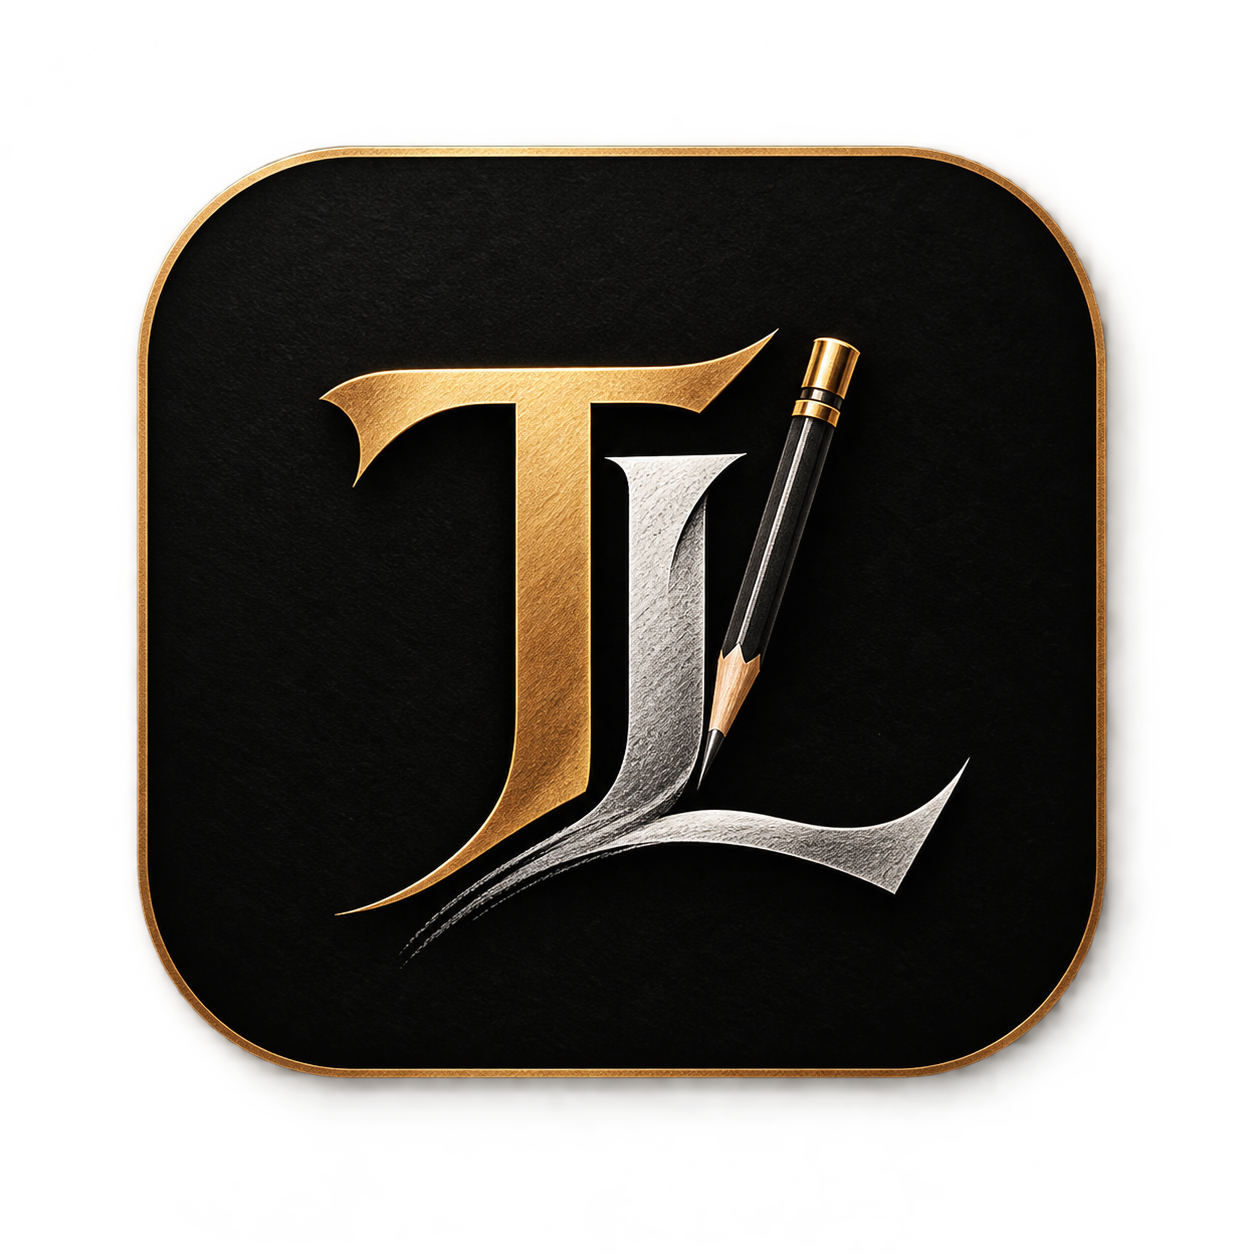
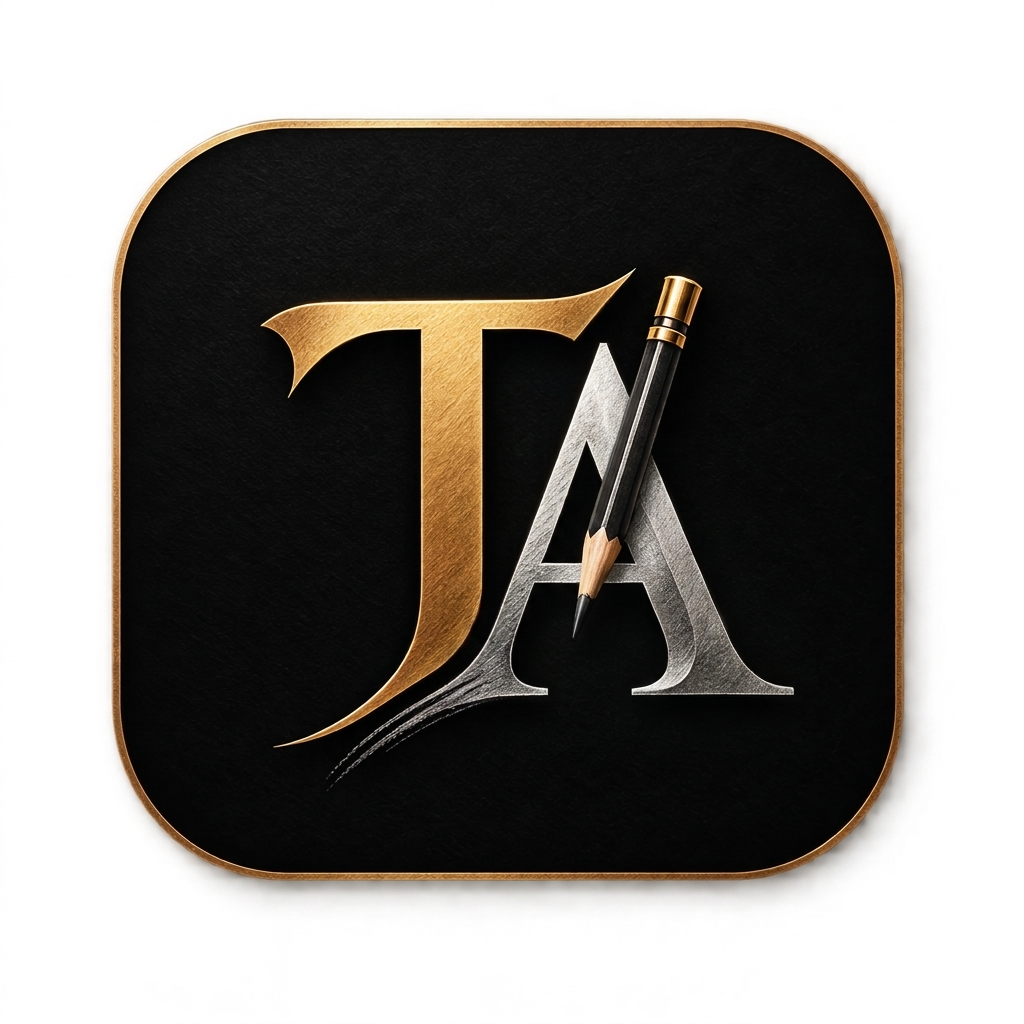
add frontend components, backend server, and portfolio data for Tushar Arts

diff --git a/frontend/src/components/HeroScroll/HeroScroll.jsx b/frontend/src/components/HeroScroll/HeroScroll.jsx
@@ -2,7 +2,7 @@ import { useEffect, useRef, useState, useCallback } from 'react';
 import './HeroScroll.css';
 
 const FRAME_FILES = [
-  'frame_001.jpg', 'frame_002.jpg', 'frame_003.jpg', 'frame_004.jpg', 'frame_005.jpg',
+  
   'frame_006.jpg', 'frame_007.jpg', 'frame_008.jpg', 'frame_009.jpg', 'frame_010.jpg',
   'frame_011.jpg', 'frame_012.jpg', 'frame_013.jpg', 'frame_014.jpg', 'frame_015.jpg',
   'frame_016.jpg', 'frame_017.jpg', 'frame_018.jpg', 'frame_019.jpg', 'frame_020.jpg',
@@ -208,7 +208,7 @@ export default function HeroScroll() {
         {/* Preloader Overlay (disappears smoothly once frame 1 is ready) */}
         {!isReady && (
           <div className="hero-loader-overlay">
-            <h2 className="loader-title">TL ARTS</h2>
+            <h2 className="loader-title">TUSHAR ARTS</h2>
             <div className="loader-status">
               LOADING TRAILER FRAMES... {loadPercent}%
             </div>
@@ -231,8 +231,8 @@ export default function HeroScroll() {
                 : 'hidden-up'
             }`}
           >
-            <div className="badge-tagline">★ TUSHAR LOHAR ARTS ★</div>
-            <h1 className="gta-headline">TL ARTS</h1>
+            <div className="badge-tagline">★ TUSHAR LOHAR STUDIO ★</div>
+            <h1 className="gta-headline">TUSHAR ARTS</h1>
             <p className="story-description">
               EVERY STROKE TELLS A STORY. REALISTIC GRAPHITE & CHARCOAL PORTRAITS BY TUSHAR LOHAR.
             </p>
@@ -298,26 +298,12 @@ export default function HeroScroll() {
           </div>
         </div>
 
-        {/* Bottom HUD: Telemetry, Scroll Indicator & Progress Bar */}
+        {/* Bottom HUD: Scroll Indicator */}
         <footer className="hero-bottom-hud">
-          <div className="hud-left" />
-
           <div className="hud-center">
             <div className="scroll-prompt">
               <span>SCROLL TO EXPLORE</span>
               <span>↓</span>
-            </div>
-          </div>
-
-          <div className="hud-right">
-            <div className="progress-number">
-              {Math.round(scrollProgress * 100)}% COMPLETE
-            </div>
-            <div className="progress-track">
-              <div
-                className="progress-fill"
-                style={{ width: `${Math.round(scrollProgress * 100)}%` }}
-              />
             </div>
           </div>
         </footer>

diff --git a/frontend/index.html b/frontend/index.html
@@ -2,22 +2,22 @@
 <html lang="en">
   <head>
     <meta charset="UTF-8" />
-    <link rel="icon" type="image/svg+xml" href="/icon.png" />
+    <link rel="icon" type="image/png" href="/icon.png" />
     <meta name="viewport" content="width=device-width, initial-scale=1.0" />
-    <title>TLArts | Tushar Lohar — Realistic Sketch Artist Portfolio</title>
-    <meta name="description" content="TLArts (Tushar Lohar Arts) — Hyper-Realistic Graphite & Charcoal Portrait Sketch Artist. Every Stroke Tells a Story. Book bespoke handmade portrait commissions." />
-    <meta name="keywords" content="Tushar Lohar, TLArts, Sketch Artist, Graphite Portrait, Charcoal Sketch, Realistic Sketches, artist_tushar_02, Portrait Artist Maharashtra" />
+    <title>Tushar Arts | Tushar Lohar — Realistic Sketch Artist Portfolio</title>
+    <meta name="description" content="Tushar Arts — Hyper-Realistic Graphite & Charcoal Portrait Sketch Artist Tushar Lohar. Every Stroke Tells a Story. Book bespoke handmade portrait commissions." />
+    <meta name="keywords" content="Tushar Lohar, Tushar Arts, Sketch Artist, Graphite Portrait, Charcoal Sketch, Realistic Sketches, artist_tushar_02, Portrait Artist Maharashtra" />
     <meta name="author" content="Tushar Lohar" />
 
     <!-- Open Graph / WhatsApp / Facebook Sharing Preview -->
     <meta property="og:type" content="website" />
-    <meta property="og:title" content="TLArts | Tushar Lohar — Realistic Sketch Artist" />
+    <meta property="og:title" content="Tushar Arts | Tushar Lohar — Realistic Sketch Artist" />
     <meta property="og:description" content="Every Stroke Tells a Story. Photorealistic handmade pencil & charcoal portraits by Tushar Lohar (@artist_tushar_02)." />
-    <meta property="og:image" content="/public/icon.png" />
+    <meta property="og:image" content="/icon.png" />
 
     <!-- Twitter Card -->
     <meta name="twitter:card" content="summary_large_image" />
-    <meta name="twitter:title" content="TLArts | Tushar Lohar — Realistic Sketch Artist" />
+    <meta name="twitter:title" content="Tushar Arts | Tushar Lohar — Realistic Sketch Artist" />
     <meta name="twitter:description" content="Every Stroke Tells a Story. Photorealistic handmade pencil & charcoal portraits by Tushar Lohar (@artist_tushar_02)." />
     <meta name="twitter:image" content="/tushar_photo/Tushar_photo.jpg" />
 

diff --git a/frontend/src/components/HeroScroll/HeroScroll.css b/frontend/src/components/HeroScroll/HeroScroll.css
@@ -141,7 +141,7 @@
 
 .gta-headline {
   font-family: var(--font-display);
-  font-size: clamp(3.8rem, 9vw, 8.5rem);
+  font-size: clamp(3rem, 8.5vw, 8rem);
   font-weight: 900;
   line-height: 0.9;
   letter-spacing: 3px;
@@ -252,7 +252,7 @@
   right: 0;
   z-index: 10;
   display: flex;
-  justify-content: space-between;
+  justify-content: center;
   align-items: flex-end;
   padding: 24px 48px;
   background: linear-gradient(0deg, rgba(3, 3, 6, 0.9) 0%, transparent 100%);
@@ -307,36 +307,6 @@
   50% { transform: translateY(5px); }
 }
 
-.hud-right {
-  display: flex;
-  flex-direction: column;
-  align-items: flex-end;
-  gap: 6px;
-}
-
-.progress-number {
-  font-family: var(--font-mono);
-  font-size: 0.85rem;
-  font-weight: 700;
-  letter-spacing: 1px;
-  color: #ffffff;
-}
-
-.progress-track {
-  width: 140px;
-  height: 4px;
-  background: rgba(255, 255, 255, 0.15);
-  border-radius: 2px;
-  overflow: hidden;
-}
-
-.progress-fill {
-  height: 100%;
-  background: linear-gradient(90deg, var(--gta-pink), var(--gta-orange), var(--gta-cyan));
-  border-radius: 2px;
-  transition: width 0.1s linear;
-}
-
 /* ==========================================================================
    PRELOADER OVERLAY
    ========================================================================== */
@@ -356,7 +326,7 @@
 
 .loader-title {
   font-family: var(--font-display);
-  font-size: 3rem;
+  font-size: clamp(2.2rem, 6vw, 3rem);
   letter-spacing: 4px;
   background: linear-gradient(135deg, #ffffff 30%, #ff7700 70%, #ff2a85 100%);
   -webkit-background-clip: text;

diff --git a/frontend/src/components/EnquirySection/EnquirySection.jsx b/frontend/src/components/EnquirySection/EnquirySection.jsx
@@ -93,7 +93,7 @@ export default function EnquirySection() {
       : '';
 
     const text = encodeURIComponent(
-      `🎨 *TLArts — New Custom Sketch Commission* 🎨\n────────────────────────────\n👋 _Hello Tushar!_\n\nI just submitted a custom sketch commission request on your website:\n\n👤 *Client Name:* *${formData.name?.trim() || 'Art Lover'}*\n📞 *Contact / Phone:* _${formData.contact?.trim()}_\n🖼 *Sketch Type:* *${formData.sketchType}*\n📐 *Requested Size:* *${formData.size}*${hasPhotoText}${notesText}\n\n────────────────────────────\nPlease share pricing quotation, slot availability, and delivery timeline.\n\n_Looking forward to your response!_ ✨`
+      `🎨 *Tushar Arts — New Custom Sketch Commission* 🎨\n────────────────────────────\n👋 _Hello Tushar!_\n\nI just submitted a custom sketch commission request on your website:\n\n👤 *Client Name:* *${formData.name?.trim() || 'Art Lover'}*\n📞 *Contact / Phone:* _${formData.contact?.trim()}_\n🖼 *Sketch Type:* *${formData.sketchType}*\n📐 *Requested Size:* *${formData.size}*${hasPhotoText}${notesText}\n\n────────────────────────────\nPlease share pricing quotation, slot availability, and delivery timeline.\n\n_Looking forward to your response!_ ✨`
     );
 
     return `https://wa.me/919673400446?text=${text}`;

diff --git a/frontend/src/components/ArtistIntroduction/ArtistIntroduction.jsx b/frontend/src/components/ArtistIntroduction/ArtistIntroduction.jsx
@@ -11,7 +11,7 @@ export default function ArtistIntroduction() {
             THE ARTIST & STUDIO
           </span>
           <h2 className="font-['Bebas_Neue',sans-serif] text-5xl md:text-7xl tracking-wider text-white leading-none mb-4">
-            TUSHAR LOHAR <span className="bg-gradient-to-r from-[#e8c985] to-[#c5a059] bg-clip-text text-transparent">ARTS</span>
+            TUSHAR <span className="bg-gradient-to-r from-[#e8c985] to-[#c5a059] bg-clip-text text-transparent">ARTS</span>
           </h2>
           <p className="font-['Cinzel',serif] text-lg md:text-xl italic text-slate-400 max-w-2xl mx-auto">
             &ldquo;Every stroke tells a story, and every graphite layer captures a soul.&rdquo;
@@ -52,7 +52,7 @@ export default function ArtistIntroduction() {
             </h3>
 
             <p className="text-slate-300 text-base md:text-lg leading-relaxed">
-              Welcome to <strong className="text-white font-semibold">TLArts</strong>, the creative studio of sketch artist <strong className="text-white font-semibold">Tushar Lohar</strong>. 
+              Welcome to <strong className="text-white font-semibold">Tushar Arts</strong>, the creative studio of sketch artist <strong className="text-white font-semibold">Tushar Lohar</strong>. 
               Driven by a deep passion for the nuances of human emotion and realism, each artwork is meticulously hand-drawn using graphite and charcoal pencils.
             </p>
 

diff --git a/frontend/src/components/ArtworkModal/ArtworkModal.jsx b/frontend/src/components/ArtworkModal/ArtworkModal.jsx
@@ -129,7 +129,7 @@ export default function ArtworkModal({ artwork, onClose }) {
                   <>
                     <a
                       href={`https://wa.me/919673400446?text=${encodeURIComponent(
-                        `🎨 *TLArts — Original Artwork Purchase Inquiry*\n\nHello Tushar! I would like to purchase your authentic original artwork:\n\n• *Artwork Title:* "${artwork.title}"\n• *Medium:* ${artwork.medium}\n• *Dimensions:* ${artwork.dimensions}\n• *Listed Price:* ₹${(artwork.price || 0).toLocaleString('en-IN')}\n\nPlease share availability status, courier packaging details, and UPI/Bank payment methods.`
+                        `🎨 *Tushar Arts — Original Artwork Purchase Inquiry*\n\nHello Tushar! I would like to purchase your authentic original artwork:\n\n• *Artwork Title:* "${artwork.title}"\n• *Medium:* ${artwork.medium}\n• *Dimensions:* ${artwork.dimensions}\n• *Listed Price:* ₹${(artwork.price || 0).toLocaleString('en-IN')}\n\nPlease share availability status, courier packaging details, and UPI/Bank payment methods.`
                       )}`}
                       target="_blank"
                       rel="noopener noreferrer"

diff --git a/frontend/src/components/Footer/Footer.jsx b/frontend/src/components/Footer/Footer.jsx
@@ -17,7 +17,7 @@ export default function Footer() {
         <div className="grid grid-cols-1 md:grid-cols-12 gap-12 mb-16">
           <div className="md:col-span-5 flex flex-col">
             <span className="font-['Bebas_Neue',sans-serif] text-5xl tracking-widest font-black bg-gradient-to-r from-white via-white to-[#c5a059] bg-clip-text text-transparent leading-none mb-1">
-              TLARTS
+              TUSHAR ARTS
             </span>
             <span className="font-['Space_Grotesk',monospace] text-xs tracking-widest text-[#c5a059] uppercase mb-3">
               {ARTIST_INFO.fullName}
@@ -65,7 +65,7 @@ export default function Footer() {
         {/* Bottom Bar */}
         <div className="flex flex-col sm:flex-row justify-between items-center border-t border-white/5 pt-8 gap-4 text-xs font-['Space_Grotesk',monospace] text-slate-500">
           <div>
-            © {new Date().getFullYear()} {ARTIST_INFO.fullName} ({ARTIST_INFO.brandName}). Handcrafted with Graphite & Passion.
+            © {new Date().getFullYear()} {ARTIST_INFO.brandName} ({ARTIST_INFO.artistName}). Handcrafted with Graphite & Passion.
           </div>
 
           <button

diff --git a/frontend/src/components/OwnerPortal/OwnerStudioPage.jsx b/frontend/src/components/OwnerPortal/OwnerStudioPage.jsx
@@ -59,7 +59,7 @@ function InquiryCard({ inquiry, onStatusChange, onDelete, onImageClick }) {
   const cleanPhone = inquiry.contact.replace(/[^\d+]/g, '');
   const waUrl = cleanPhone
     ? `https://wa.me/${cleanPhone.startsWith('+') ? cleanPhone.slice(1) : cleanPhone}?text=${encodeURIComponent(
-        `Hello ${inquiry.name}! This is artist Tushar Lohar (TLArts) regarding your ${inquiry.sketchType} (${inquiry.size}) portrait commission request.`
+        `Hello ${inquiry.name}! This is artist Tushar Lohar (Tushar Arts) regarding your ${inquiry.sketchType} (${inquiry.size}) portrait commission request.`
       )}`
     : null;
 
@@ -658,7 +658,7 @@ export default function OwnerStudioPage() {
             <div>
               <div className="flex items-center gap-2">
                 <span className="font-['Bebas_Neue',sans-serif] text-2xl tracking-wider text-white">
-                  TLARTS STUDIO
+                  TUSHAR ARTS STUDIO
                 </span>
                 <span className="bg-[#c5a059]/15 border border-[#c5a059]/40 text-[#c5a059] text-[10px] font-mono px-2 py-0.5 rounded-full uppercase">
                   CMS DASHBOARD

diff --git a/frontend/src/components/Navbar/Navbar.jsx b/frontend/src/components/Navbar/Navbar.jsx
@@ -60,13 +60,13 @@ export default function Navbar() {
           href="#hero"
           className="flex flex-col text-left leading-none group cursor-pointer select-none"
           onClick={handleBrandClick}
-          title="TLArts - Tushar Lohar Arts"
+          title="Tushar Arts — Realistic Sketch Artist"
         >
           <span className="font-['Bebas_Neue',sans-serif] text-2xl md:text-3xl tracking-widest font-black bg-gradient-to-r from-white via-white to-[#c5a059] bg-clip-text text-transparent group-hover:brightness-110 transition-all">
-            <span className='text-[#ffc14d]'>TL</span> ARTS
+            <span className='text-[#ffc14d]'>TUSHAR</span> ARTS
           </span>
           <span className="font-['Space_Grotesk',monospace] text-[10px] tracking-widest text-[#c5a059] uppercase mt-0.5">
-            TUSHAR LOHAR ARTS
+            REALISTIC SKETCH STUDIO
           </span>
         </a>
 

diff --git a/frontend/src/components/SketchGallery/SketchGallery.jsx b/frontend/src/components/SketchGallery/SketchGallery.jsx
@@ -171,7 +171,7 @@ export default function SketchGallery({ onSelectArtwork }) {
                       {art.isForSale && !art.isSold && (
                         <a
                           href={`https://wa.me/919673400446?text=${encodeURIComponent(
-                            `🎨 *TLArts Inquiry*\nHello Tushar! I want to purchase your original sketch "${art.title}" (₹${(art.price || 0).toLocaleString('en-IN')}). Please share payment & shipping details.`
+                            `🎨 *Tushar Arts Inquiry*\nHello Tushar! I want to purchase your original sketch "${art.title}" (₹${(art.price || 0).toLocaleString('en-IN')}). Please share payment & shipping details.`
                           )}`}
                           target="_blank"
                           rel="noopener noreferrer"

diff --git a/backend/index.js b/backend/index.js
@@ -49,7 +49,7 @@ app.use('/api/videos', require('./src/routes/videoRoutes'));
 // 5. Root Health Check
 app.get('/', (req, res) => {
     res.json({
-        name: "TLArts - Tushar Lohar Arts API",
+        name: "Tushar Arts - Realistic Sketch Artist API",
         status: "Online",
         version: "1.0.0",
         timestamp: new Date().toISOString()
@@ -81,5 +81,5 @@ app.use((err, req, res, next) => {
 const PORT = process.env.PORT || 1006;
 
 app.listen(PORT, () => {
-    console.log(`TLArts Server is running on http://localhost:${PORT}`);
+    console.log(`Tushar Arts Server is running on http://localhost:${PORT}`);
 });

diff --git a/frontend/src/data/artworks.js b/frontend/src/data/artworks.js
@@ -1,13 +1,13 @@
 /**
- * TLArts — Centralized Artwork Data Repository
+ * Tushar Arts — Centralized Artwork Data Repository
  * Artist: Tushar Lohar (@artist_tushar_02)
- * Brand: TLArts (Tushar Lohar Arts)
+ * Brand: Tushar Arts (Tushar Lohar Studio)
  * Instagram: https://www.instagram.com/artist_tushar_02/
  */
 
 export const ARTIST_INFO = {
-  brandName: 'TLArts',
-  fullName: 'Tushar Lohar Arts',
+  brandName: 'Tushar Arts',
+  fullName: 'Tushar Lohar Studio',
   artistName: 'Tushar Lohar',
   instagramUsername: '@artist_tushar_02',
   instagramUrl: 'https://www.instagram.com/artist_tushar_02/',
